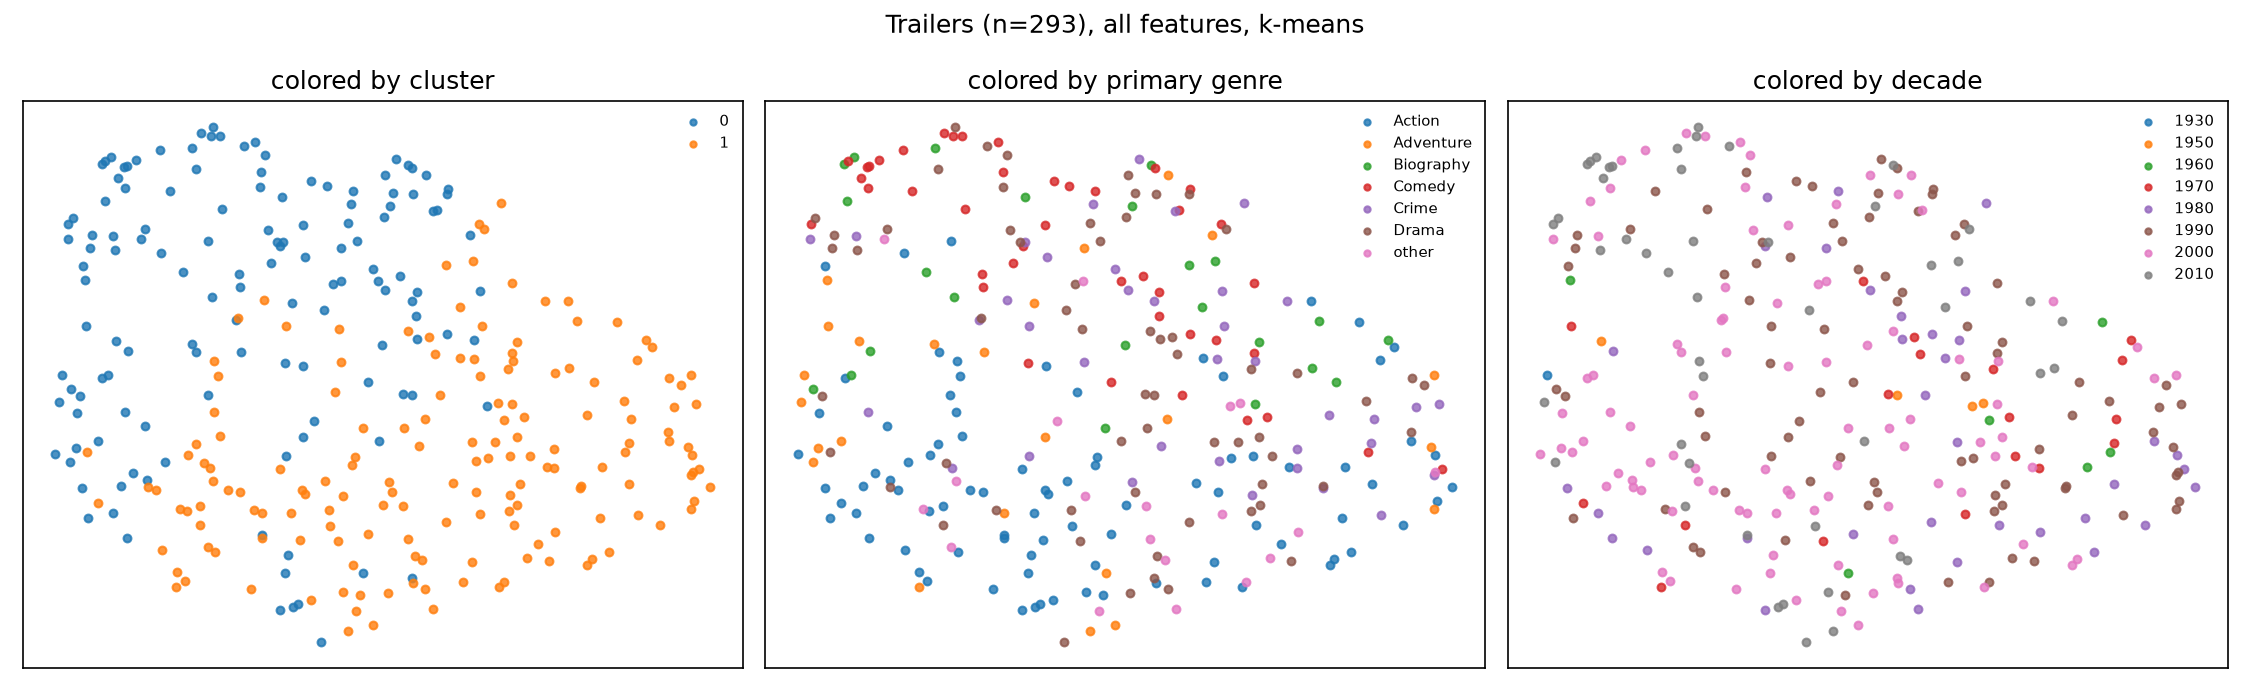
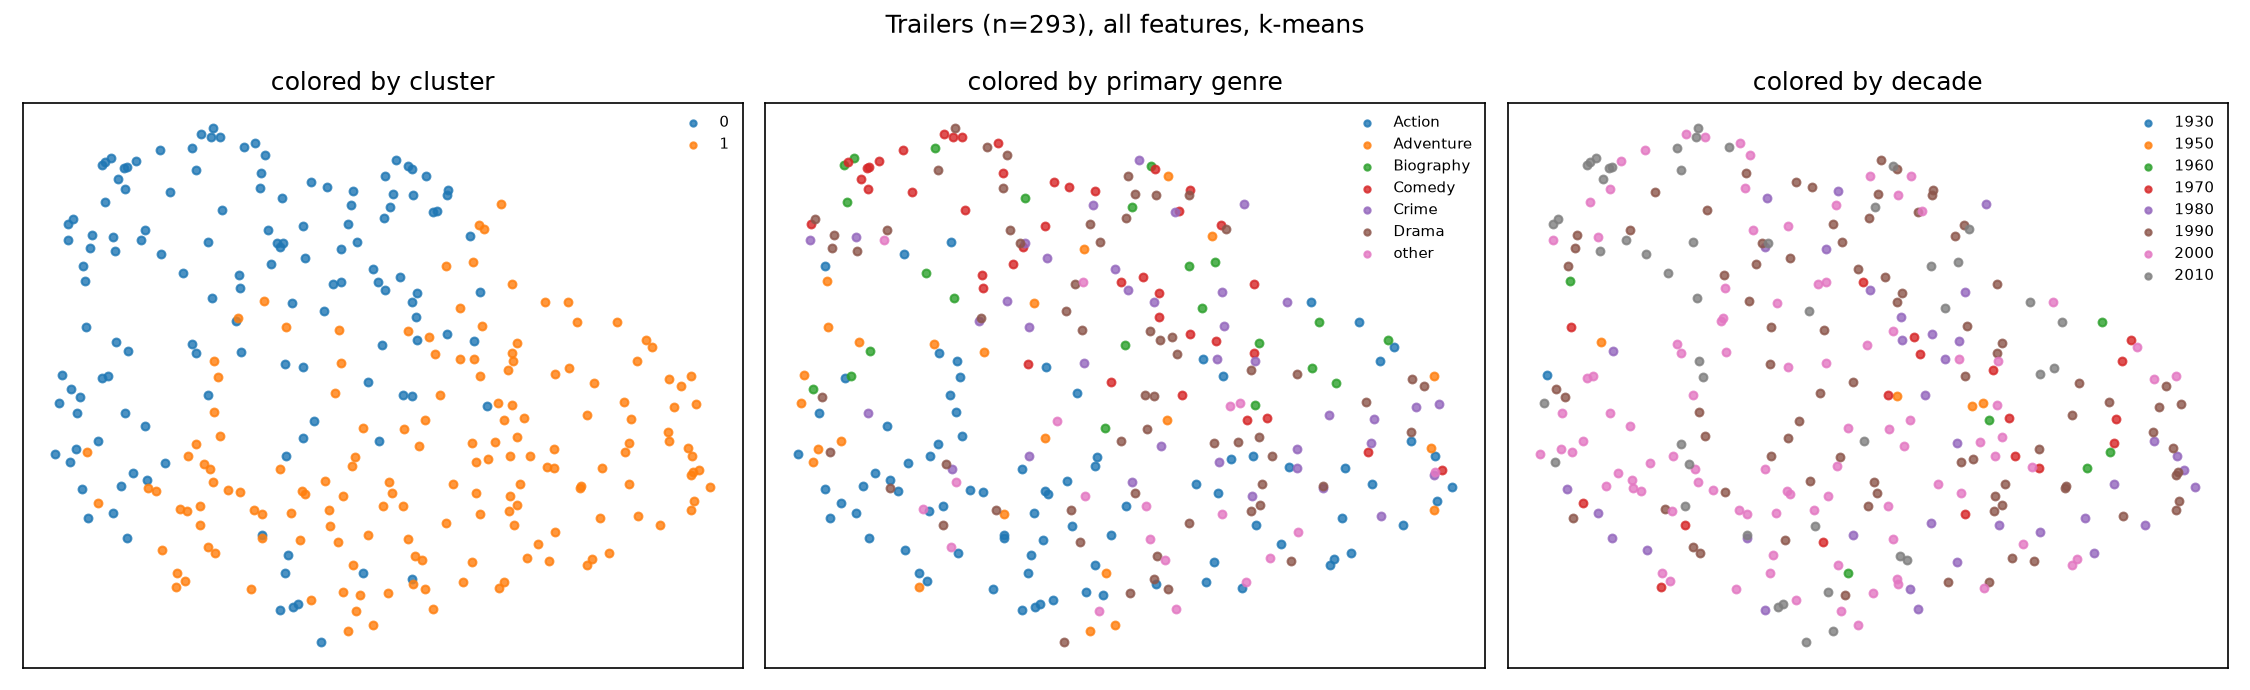
feat(rq2): residualize genre/decade confounds and validate k=2 structural stability (ARI=0.86)

diff --git a/src/trailercut/cluster.py b/src/trailercut/cluster.py
@@ -8,15 +8,23 @@ For all features combined and for each modality alone:
   python -m trailercut.cluster
 Writes data/features/clusters.csv, data/features/cluster_report.json, figures/clusters_*.png
 """
+import warnings
+warnings.simplefilter(action="ignore", category=FutureWarning)
+
 import json
 
+import matplotlib
+matplotlib.use("TkAgg")
 import matplotlib.pyplot as plt
+
 import numpy as np
 import pandas as pd
 from sklearn.cluster import HDBSCAN, KMeans
 from sklearn.impute import SimpleImputer
 from sklearn.metrics import adjusted_rand_score, normalized_mutual_info_score, silhouette_score
 from sklearn.preprocessing import StandardScaler
+from sklearn.linear_model import Ridge
+from sklearn.preprocessing import OneHotEncoder
 
 from .paths import FEATURES, FIGURES
 from .trailer_features import GROUPS
@@ -25,9 +33,19 @@ RNG = np.random.default_rng(0)
 N_BOOT = 50
 
 
+# def prep(df, cols):
+#     X = SimpleImputer(strategy="median").fit_transform(df[cols])
+#     return StandardScaler().fit_transform(X)
+
 def prep(df, cols):
-    X = SimpleImputer(strategy="median").fit_transform(df[cols])
-    return StandardScaler().fit_transform(X)
+    # If cols is already an array/matrix, use it directly
+    if isinstance(cols, np.ndarray):
+        X_raw = cols
+    else:
+        X_raw = df[cols].values
+
+    X_imp = SimpleImputer(strategy="median").fit_transform(X_raw)
+    return StandardScaler().fit_transform(X_imp)
 
 
 def kmeans(X, k, seed=0):
@@ -52,6 +70,20 @@ def association(labels, meta, n_perm=200):
     return dict(nmi=float(nmi), null_p95=float(np.percentile(null, 95)), p=float(np.mean(np.array(null) >= nmi)))
 
 
+# def analyze(df, cols, name):
+#     X = prep(df, cols)
+#     sil = {k: float(silhouette_score(X, kmeans(X, k))) for k in range(2, 9)}
+#     k = max(sil, key=sil.get)
+#     labels = kmeans(X, k)
+#     hdb = HDBSCAN(min_cluster_size=max(5, len(X) // 30)).fit_predict(X)
+#     stab = stability(X, k)
+#     return labels, dict(
+#         modality=name, n_features=len(cols), best_k=k, silhouette=sil,
+#         stability_ari_mean=stab[0], stability_ari_std=stab[1],
+#         hdbscan_n_clusters=int(hdb.max() + 1), hdbscan_noise_frac=float((hdb < 0).mean()),
+#         genre=association(labels, df.primary_genre), decade=association(labels, df.decade),
+#     )
+
 def analyze(df, cols, name):
     X = prep(df, cols)
     sil = {k: float(silhouette_score(X, kmeans(X, k))) for k in range(2, 9)}
@@ -59,12 +91,33 @@ def analyze(df, cols, name):
     labels = kmeans(X, k)
     hdb = HDBSCAN(min_cluster_size=max(5, len(X) // 30)).fit_predict(X)
     stab = stability(X, k)
+
     return labels, dict(
-        modality=name, n_features=len(cols), best_k=k, silhouette=sil,
-        stability_ari_mean=stab[0], stability_ari_std=stab[1],
-        hdbscan_n_clusters=int(hdb.max() + 1), hdbscan_noise_frac=float((hdb < 0).mean()),
-        genre=association(labels, df.primary_genre), decade=association(labels, df.decade),
+        modality=name,
+        n_features=X.shape[1],
+        best_k=k,
+        silhouette=sil,
+        stability_ari_mean=stab[0],
+        stability_ari_std=stab[1],
+        hdbscan_n_clusters=int(hdb.max() + 1),
+        hdbscan_noise_frac=float((hdb < 0).mean()),
+        genre=association(labels, df.primary_genre),
+        decade=association(labels, df.decade),
     )
+
+def residualize_features(X, meta_df, alpha=1.0):
+    # One-hot encode confounds (drop first to prevent perfect multicollinearity)
+    encoder = OneHotEncoder(sparse_output=False, drop="first", handle_unknown="ignore")
+    confounds = encoder.fit_transform(meta_df[["primary_genre", "decade"]])
+
+    # Fit Ridge regression model to predict feature matrix X from confounds
+    model = Ridge(alpha=alpha)
+    model.fit(confounds, X)
+
+    # Subtract linear metadata predictions to isolate residuals
+    X_pred = model.predict(confounds)
+
+    return X - X_pred
 
 
 def plot(df, X, labels, path, title):
@@ -82,28 +135,59 @@ def plot(df, X, labels, path, title):
         ax.legend(fontsize=7, markerscale=0.8, frameon=False, loc="best")
     fig.suptitle(title)
     fig.tight_layout()
-    fig.savefig(path, dpi=150)
-    plt.close(fig)
+    # fig.savefig(path, dpi=150)
+    # plt.close(fig)
     return xy
 
 
 def main():
     df = pd.read_parquet(FEATURES / "trailers.parquet")
-    report = []
+
+    # Standardize column types
+    df["decade"] = pd.to_numeric(df["decade"], errors="coerce").astype("int64")
+    df["primary_genre"] = df["primary_genre"].astype(str)
+
+    report_baseline = []
+    report_residual = []
+
     all_cols = [c for g in GROUPS.values() for c in g]
     out = df[["imdb_id", "title", "year", "primary_genre"]].copy()
+
+    print("=== RUNNING BASELINE CLUSTERING ===")
     for name, cols in [("all", all_cols), *GROUPS.items()]:
         labels, r = analyze(df, cols, name)
         out[f"cluster_{name}"] = labels
-        report.append(r)
+        report_baseline.append(r)
         print(f"{name:9s} k={r['best_k']} sil={r['silhouette'][r['best_k']]:.3f} "
               f"stab={r['stability_ari_mean']:.2f} genreNMI={r['genre']['nmi']:.3f} (null95 {r['genre']['null_p95']:.3f}) "
               f"decadeNMI={r['decade']['nmi']:.3f} (null95 {r['decade']['null_p95']:.3f})")
-    xy = plot(df, prep(df, all_cols), out.cluster_all.values, FIGURES / "clusters_all_umap.png",
+
+    print("\n=== RUNNING RESIDUAL CLUSTERING ===")
+    for name, cols in [("all", all_cols), *GROUPS.items()]:
+        # Residualized prep: prep features first, then subtract genre/decade signal
+        X_base = prep(df, cols)
+        X_res = residualize_features(X_base, df)
+
+        labels, r = analyze(df, X_res, name)
+        out[f"cluster_res_{name}"] = labels
+        report_residual.append(r)
+        print(f"[RES]  {name:9s} k={r['best_k']} sil={r['silhouette'][r['best_k']]:.3f} "
+              f"stab={r['stability_ari_mean']:.2f} genreNMI={r['genre']['nmi']:.3f} "
+              f"decadeNMI={r['decade']['nmi']:.3f}")
+        
+    xy_base = plot(df, prep(df, all_cols), out.cluster_all.values, FIGURES / "clusters_all_umap.png",
               f"Trailers (n={len(df)}), all features, k-means")
-    out["umap_x"], out["umap_y"] = xy[:, 0], xy[:, 1]
-    out.to_csv(FEATURES / "clusters.csv", index=False)
-    (FEATURES / "cluster_report.json").write_text(json.dumps(report, indent=2))
+    plt.show()
+
+    xy_res = plot(df, residualize_features(prep(df, all_cols), df), out.cluster_res_all.values, FIGURES / "clusters_all_umap_res.png",
+                  f"Trailers (n={len(df)}), Residualized (All Features)")
+    plt.show()
+    
+    out["umap_x_base"], out["umap_y_base"] = xy_base[:, 0], xy_base[:, 1]
+    out["umap_x_res"], out["umap_y_res"] = xy_res[:, 0], xy_res[:, 1]
+
+    # out.to_csv(FEATURES / "clusters.csv", index=False)
+    # (FEATURES / "cluster_report.json").write_text(json.dumps(report, indent=2))
 
 
 if __name__ == "__main__":

diff --git a/analyze_baseline_features.py b/analyze_baseline_features.py
@@ -1,0 +1,87 @@
+import matplotlib.pyplot as plt
+import numpy as np
+import pandas as pd
+import seaborn as sns
+from sklearn.decomposition import PCA
+from sklearn.preprocessing import StandardScaler
+
+# 1. Load dataset
+df = pd.read_parquet("data/features/trailers.parquet")
+
+# 2. Metadata vs. Feature separation
+meta_cols = [
+    "imdb_id",
+    "title",
+    "year",
+    "genres",
+    "primary_genre",
+    "decade",
+]
+
+# Select all numeric feature columns
+feature_cols = [
+    c
+    for c in df.select_dtypes(include=[np.number]).columns
+    if c not in meta_cols
+]
+
+df["decade"] = df["decade"].astype("int64")
+
+# Standardize feature matrix
+X = df[feature_cols].fillna(0).values
+scaler = StandardScaler()
+X_scaled = scaler.fit_transform(X)
+
+# 3. Principal Component Analysis
+pca = PCA(n_components=2, random_state=42)
+X_pca = pca.fit_transform(X_scaled)
+
+df["pca_1"] = X_pca[:, 0]
+df["pca_2"] = X_pca[:, 1]
+
+# Extract feature weights (loadings)
+loadings = pd.DataFrame(
+    pca.components_.T, index=feature_cols, columns=["PC1_weight", "PC2_weight"]
+)
+loadings["PC1_abs"] = loadings["PC1_weight"].abs()
+loadings["PC2_abs"] = loadings["PC2_weight"].abs()
+
+print("=== TOP 5 FEATURES DRIVING PC1 (Horizontal Axis) ===")
+print(loadings.sort_values(by="PC1_abs", ascending=False)[["PC1_weight"]].head(5))
+
+print("\n=== TOP 5 FEATURES DRIVING PC2 (Vertical Axis) ===")
+print(loadings.sort_values(by="PC2_abs", ascending=False)[["PC2_weight"]].head(5))
+
+# 4. Generate visual plots
+fig, axes = plt.subplots(1, 2, figsize=(14, 6))
+
+sns.scatterplot(
+    data=df,
+    x="pca_1",
+    y="pca_2",
+    hue="primary_genre",
+    alpha=0.75,
+    ax=axes[0],
+    palette="tab10",
+)
+axes[0].set_title(
+    f"Baseline Clusters by Genre (PC1: {pca.explained_variance_ratio_[0]:.1%} var)"
+)
+
+sns.scatterplot(
+    data=df,
+    x="pca_1",
+    y="pca_2",
+    hue="decade",
+    alpha=0.75,
+    ax=axes[1],
+    palette="viridis",
+)
+axes[1].set_title(
+    f"Baseline Clusters by Decade (PC2: {pca.explained_variance_ratio_[1]:.1%} var)"
+)
+
+plt.tight_layout()
+plt.show()
+# plt.savefig("baseline_pca_features.png", dpi=300)
+# print("\nSaved scatter plot to baseline_pca_features.png")

diff --git a/docs/TODO.md b/docs/TODO.md
@@ -17,8 +17,6 @@ current block lives in `plan.md`.
 
 **Clustering and Overview**
 - [ ] Label the first 2 trailers of `labels/label_sample.json` with a second labeler (name box filled) for Cohen's kappa against `gold_ced.json`
-- [ ] Residual clustering: regress genre and decade out of the trailer features, re-cluster, same stability/NMI checks. Note: dialogue clusters follow genre (NMI 0.103 vs 0.033 null); the speech group follows decade and its k = 8 is at the edge of the search range
-- [ ] Decide what the Overview shows if structure stays weak (continuous axes vs clusters)
 - [ ] D3 Overview skeleton, sharing the trailer JSON format and selection events with the Trailer View
 
 - [ ] Course guidelines, open items (`course_learnings.md`): projector check; error slices; RQ1 levels linked to example shots; a small user evaluation (3 to 5 people); EBM at a second smoothness; grouped SHAP stability across folds; report figures and contributions per the paper-writing lab
@@ -56,6 +54,7 @@ current block lives in `plan.md`.
 
 ## Done
 
+- 2026-10-30: Residual clustering: regressed genre and decade out of feature matrix via Ridge regression; metadata NMI dropped to near zero (<= 0.011), while 2-cluster structure and high stability (overall ARI 0.86, visual ARI 0.95) persisted, proving independent structural editing styles (RQ2)
 - 2026-10-30: Trailer View redesign: the video clock drives every highlight (clicks seek, no click lock), video and a "now" panel side by side above the timeline, keyboard controls, `?t=` deep links
 - 2026-10-30: `release`: dataset card numbers from the pipeline outputs, Hugging Face viewer configs, `check()` (no text columns or file paths, tables agree), `--push USER/NAME`; built locally (1,058 films, 90,750 trailer shots)
 - 2026-10-30: swap review page shows all core swaps plus a random sample of new films (`--new`, default 30), weakest matches first
